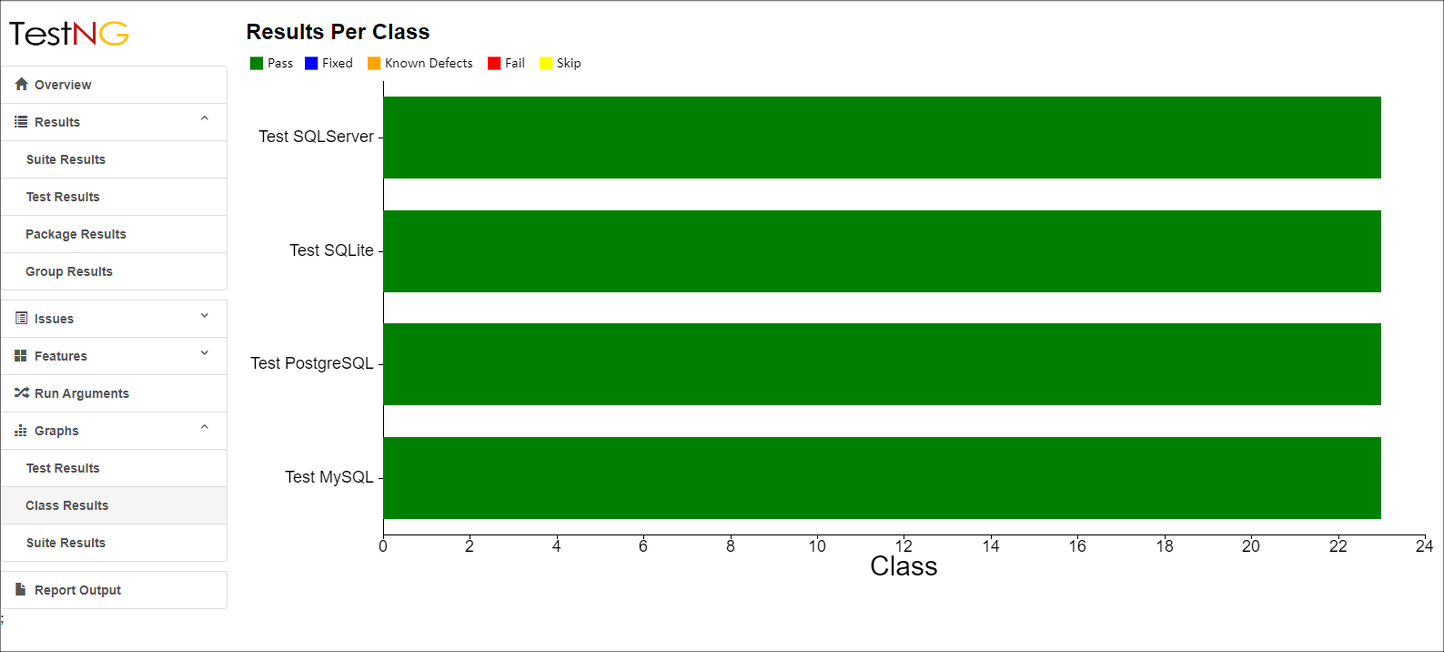
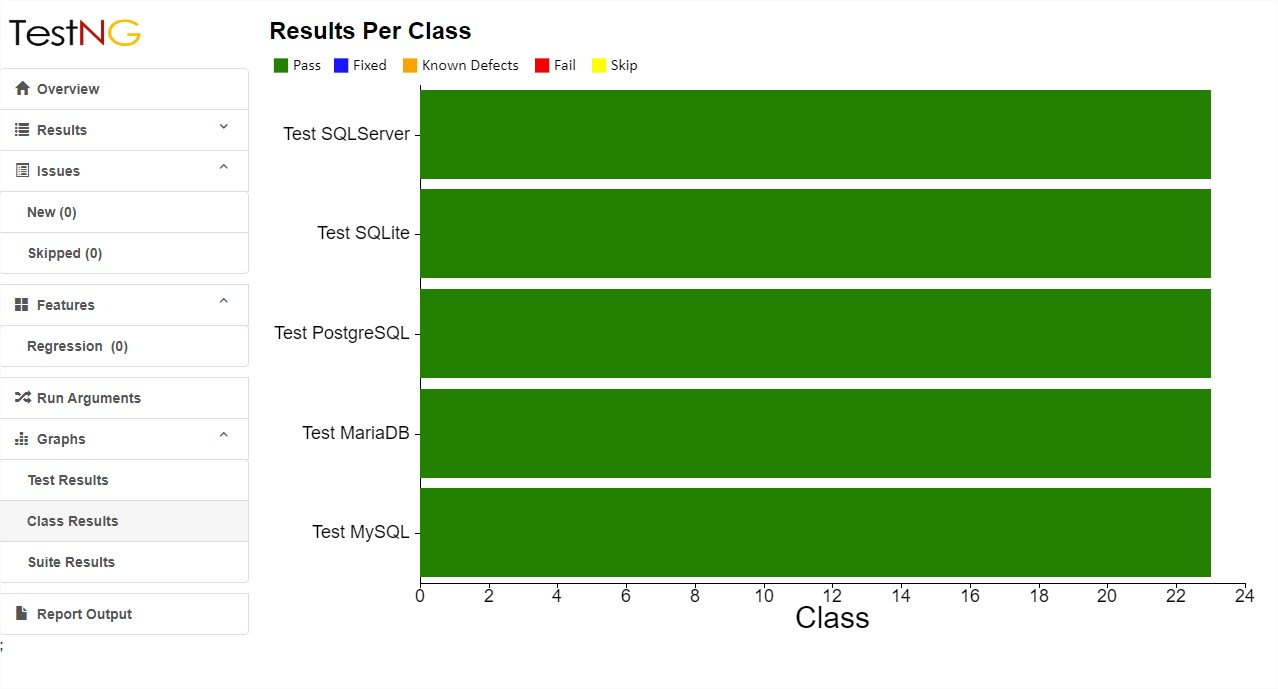
Actualización resultados de pruebas

diff --git a/src/test/TestResult.md b/src/test/TestResult.md
@@ -18,17 +18,22 @@ Resultados de los Test ejecutados
 Puede encontrar el codigo fuente en el siguiente enlace:
 [Test MySQL](https://github.com/Jbranadev/JBSqlUtils/blob/master/src/test/java/io/github/josecarlosbran/JBSqlUtils/JBSqlUtilsTestMySQL.java)
 
-[23 Test en PostgreSQL](https://jbranadev.github.io/JBSqlUtilsTest.github.io/html/suite1_test2_results.html)
+[23 Test en MariaDB](https://jbranadev.github.io/JBSqlUtilsTest.github.io/html/suite1_test2_results.html)
+
+Puede encontrar el codigo fuente en el siguiente enlace:
+[Test MariaDB](https://github.com/Jbranadev/JBSqlUtils/blob/master/src/test/java/io/github/josecarlosbran/JBSqlUtils/JBSqlUtilsTestMariaDB.java)
+
+[23 Test en PostgreSQL](https://jbranadev.github.io/JBSqlUtilsTest.github.io/html/suite1_test3_results.html)
 
 Puede encontrar el codigo fuente en el siguiente enlace:
 [Test PostgreSQL](https://github.com/Jbranadev/JBSqlUtils/blob/master/src/test/java/io/github/josecarlosbran/JBSqlUtils/JBSqlUtilsTestPostgreSQL.java)
 
-[23 Test en SQLite](https://jbranadev.github.io/JBSqlUtilsTest.github.io/html/suite1_test3_results.html)
+[23 Test en SQLite](https://jbranadev.github.io/JBSqlUtilsTest.github.io/html/suite1_test4_results.html)
 
 Puede encontrar el codigo fuente en el siguiente enlace:
 [Test SQLite](https://github.com/Jbranadev/JBSqlUtils/blob/master/src/test/java/io/github/josecarlosbran/JBSqlUtils/JBSqlUtilsTestSQLite.java)
 
-[23 Test en SQLServer](https://jbranadev.github.io/JBSqlUtilsTest.github.io/html/suite1_test4_results.html)
+[23 Test en SQLServer](https://jbranadev.github.io/JBSqlUtilsTest.github.io/html/suite1_test5_results.html)
 
 Puede encontrar el codigo fuente en el siguiente enlace:
 [Test SQLServer](https://github.com/Jbranadev/JBSqlUtils/blob/master/src/test/java/io/github/josecarlosbran/JBSqlUtils/JBSqlUtilsTestSQLServer.java) 
